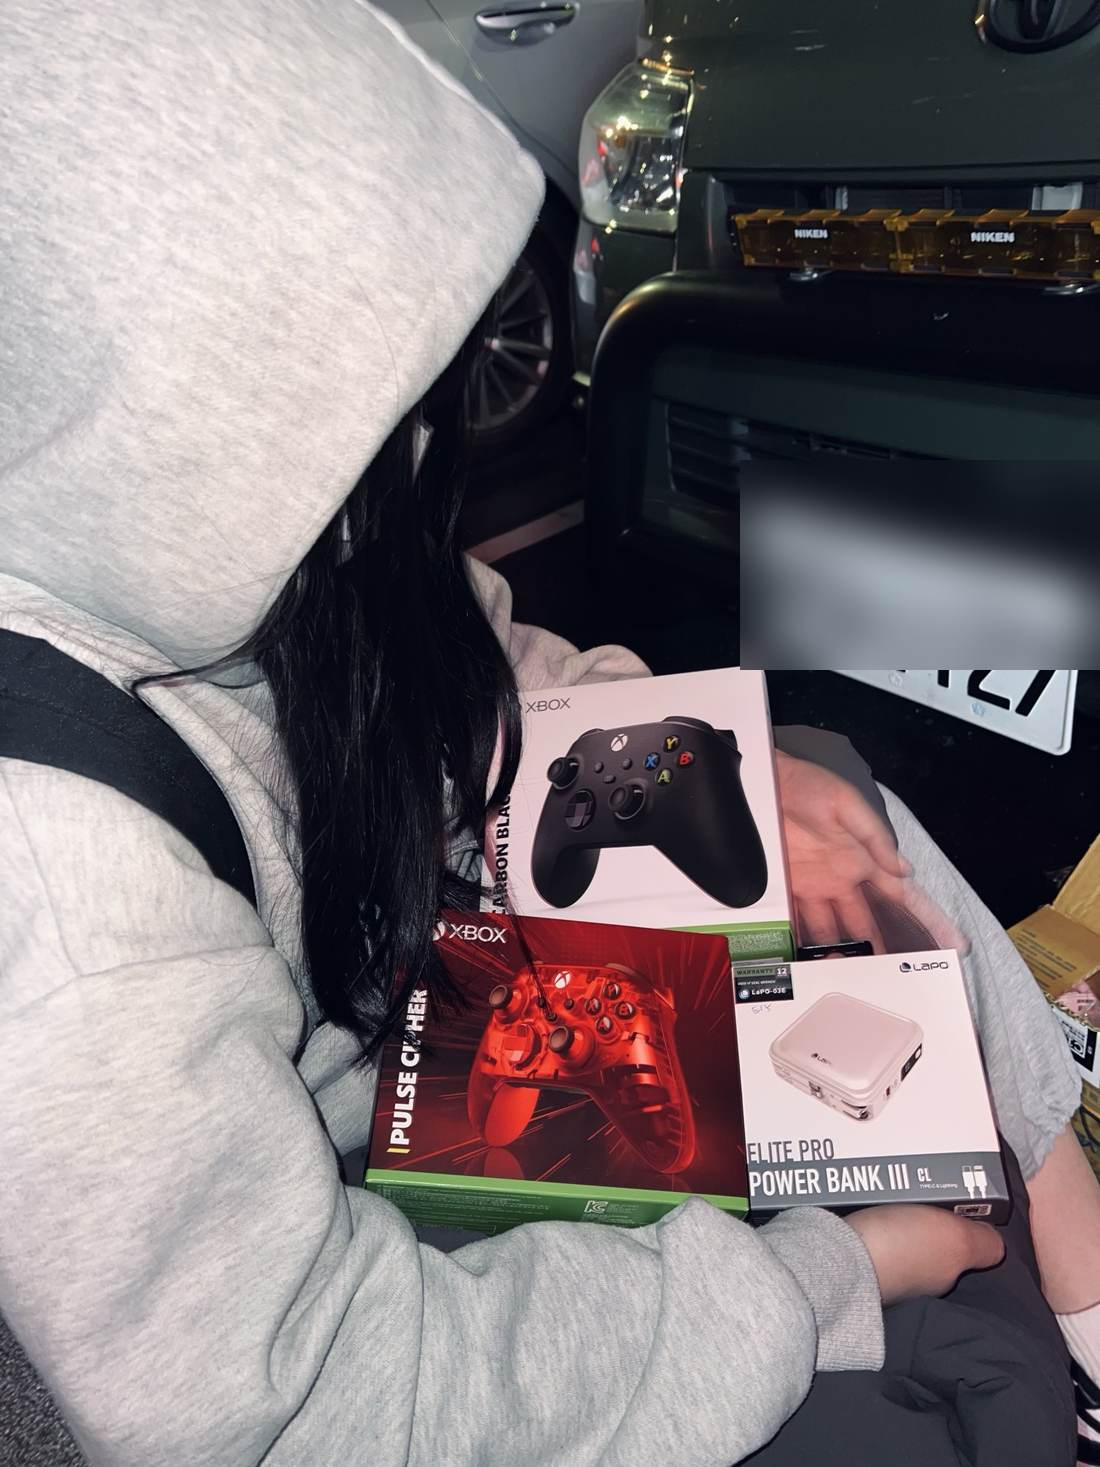
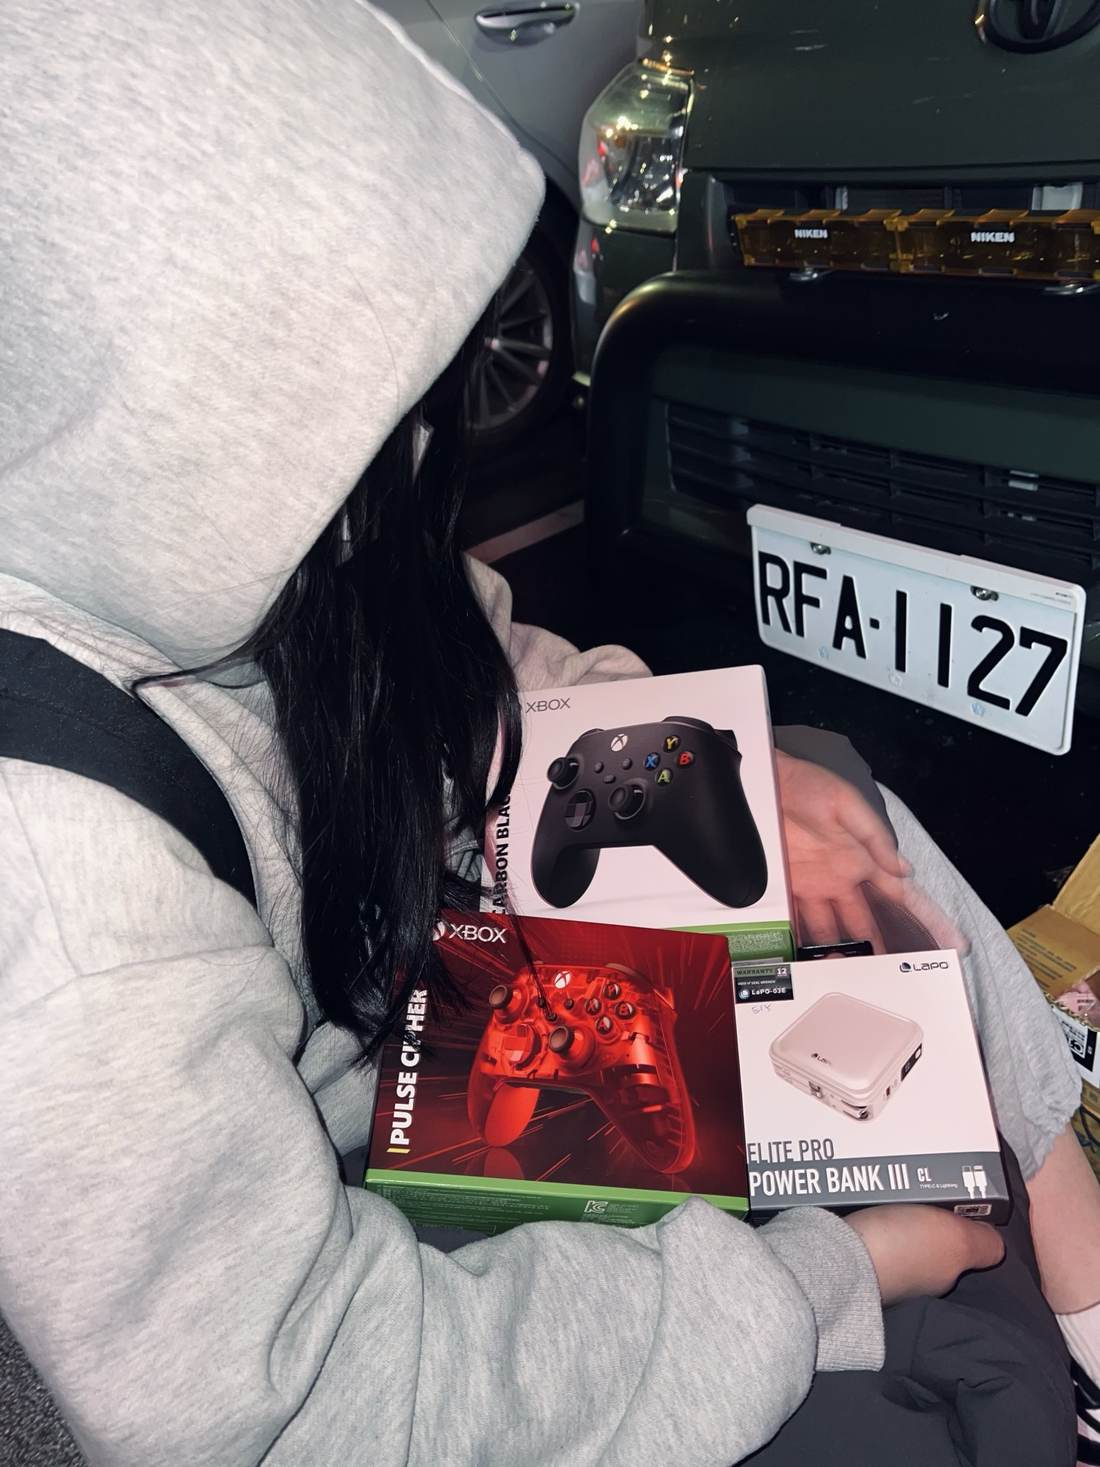
拿掉以前的馬賽克，回憶區可以猜月份、比哪張比較早

Changed region(s): [[0.6491, 0.3067, 1.0, 0.4601], [0.9273, 0.3067, 0.9582, 0.3374]]

diff --git a/js/app.js b/js/app.js
@@ -246,6 +246,99 @@ function bindWall(){
 bindWall();
 window.bindWall = bindWall;
 
+(function(){
+  const items = Array.from(document.querySelectorAll(".mem-row .tl-item")).map(function(el){
+    const img = el.querySelector("img");
+    const date = (el.querySelector(".tl-date") || {}).textContent || "";
+    const m = /(\d{4})\s*\/\s*(\d{1,2})/.exec(date);
+    return {
+      src: img ? img.getAttribute("src") : "",
+      key: m ? (Number(m[1]) * 100 + Number(m[2])) : 0,
+      label: m ? (m[1] + " / " + Number(m[2])) : ""
+    };
+  }).filter(function(it){ return it.src && it.key; });
+  const img = document.getElementById("playImg");
+  const months = document.getElementById("playMonths");
+  const msg = document.getElementById("playMsg");
+  const monthPane = document.getElementById("playMonthPane");
+  const olderPane = document.getElementById("playOlderPane");
+  const btnA = document.getElementById("playA");
+  const btnB = document.getElementById("playB");
+  const next = document.getElementById("playNext");
+  if(!img || !items.length || !months) return;
+  const labels = [];
+  const seen = {};
+  items.forEach(function(it){ if(!seen[it.key]){ seen[it.key] = it.label; labels.push(it.key); } });
+  labels.sort(function(a,b){ return a - b; });
+  let mode = "month", lock = false, score = 0, asked = 0, current = null, pair = null;
+  function setMode(nextMode){
+    mode = nextMode;
+    document.getElementById("playMonth").classList.toggle("on", mode === "month");
+    document.getElementById("playOlder").classList.toggle("on", mode === "older");
+    monthPane.hidden = mode !== "month";
+    olderPane.hidden = mode !== "older";
+    round();
+  }
+  function round(){
+    lock = false;
+    if(mode === "month"){
+      current = items[Math.floor(Math.random() * items.length)];
+      img.src = current.src;
+      months.innerHTML = "";
+      labels.forEach(function(key){
+        const b = document.createElement("button");
+        b.type = "button";
+        b.className = "chip";
+        b.textContent = seen[key];
+        b.onclick = function(){
+          if(lock) return;
+          lock = true;
+          asked++;
+          const ok = key === current.key;
+          if(ok) score++;
+          b.classList.add(ok ? "ok" : "bad");
+          if(!ok){
+            Array.from(months.children).forEach(function(x){ if(x.textContent === current.label) x.classList.add("ok"); });
+          }
+          msg.textContent = (ok ? "對" : "是 " + current.label) + "　" + score + " / " + asked;
+        };
+        months.appendChild(b);
+      });
+      msg.textContent = score ? (score + " / " + asked) : "這張是幾月";
+    } else {
+      let a = items[Math.floor(Math.random() * items.length)];
+      let b = items[Math.floor(Math.random() * items.length)];
+      let guard = 0;
+      while((b.key === a.key || b.src === a.src) && guard < 20){
+        b = items[Math.floor(Math.random() * items.length)];
+        guard++;
+      }
+      pair = [a, b];
+      btnA.className = ""; btnB.className = "";
+      btnA.querySelector("img").src = a.src;
+      btnB.querySelector("img").src = b.src;
+      msg.textContent = "點比較早的那張";
+    }
+  }
+  function pickOlder(i){
+    if(lock || !pair) return;
+    lock = true;
+    asked++;
+    const ok = pair[i].key < pair[1 - i].key;
+    if(ok) score++;
+    btnA.classList.add(pair[0].key <= pair[1].key ? "ok" : "bad");
+    btnB.classList.add(pair[1].key < pair[0].key ? "ok" : "bad");
+    const early = pair[0].key <= pair[1].key ? pair[0] : pair[1];
+    msg.textContent = (ok ? "對" : "比較早的是 " + early.label) + "　" + score + " / " + asked;
+  }
+  document.getElementById("playMonth").onclick = function(){ setMode("month"); };
+  document.getElementById("playOlder").onclick = function(){ setMode("older"); };
+  btnA.onclick = function(){ pickOlder(0); };
+  btnB.onclick = function(){ pickOlder(1); };
+  next.onclick = round;
+  round();
+})();
+
 const WALL_PAGE = 24;
 let wallAll = null;
 let wallAuto = 0;

diff --git a/index.html b/index.html
@@ -16,7 +16,7 @@
 <title>我們 ❤</title>
 <link rel="preconnect" href="https://fonts.googleapis.com">
 <link href="https://fonts.googleapis.com/css2?family=Caveat:wght@400;600&family=Noto+Sans+TC:wght@300;400;500;700&family=Noto+Serif+TC:wght@200;300;400;600&display=swap" rel="stylesheet">
-<link rel="stylesheet" href="css/app.css?v=26">
+<link rel="stylesheet" href="css/app.css?v=27">
 </head>
 <body>
 
@@ -174,6 +174,26 @@
 
   </div>
   <div class="page" id="page-memories">
+
+  <h3 class="stitle">回憶玩法</h3>
+  <div class="card" id="memPlay">
+    <div class="chip-row" style="justify-content:center">
+      <button type="button" class="chip on" id="playMonth">猜月份</button>
+      <button type="button" class="chip" id="playOlder">哪張比較早</button>
+    </div>
+    <div id="playMonthPane">
+      <img id="playImg" class="play-shot" alt="" src="">
+      <div class="chip-row" id="playMonths"></div>
+    </div>
+    <div id="playOlderPane" hidden>
+      <div class="play-pair">
+        <button type="button" id="playA"><img alt="" src=""></button>
+        <button type="button" id="playB"><img alt="" src=""></button>
+      </div>
+    </div>
+    <p id="playMsg" class="talk-note" style="text-align:center"></p>
+    <button class="btn-pink" id="playNext" type="button" style="display:block;margin:8px auto 0">換一題</button>
+  </div>
 
   <!-- 時間軸 -->
   <h3 class="stitle">2024 / 12</h3>
@@ -686,7 +706,7 @@
 <script src="js/guard.js?v=6"></script>
 <script src="js/config.js?v=4"></script>
 <script src="https://cdn.jsdelivr.net/npm/chart.js@4.4.1/dist/chart.umd.min.js"></script>
-<script src="js/app.js?v=36"></script>
+<script src="js/app.js?v=37"></script>
 <script src="https://cdn.botpress.cloud/webchat/v3.5/inject.js"></script>
 <script src="https://files.bpcontent.cloud/2026/01/12/17/20260112175648-Q8N99NKQ.js" defer></script>
 

diff --git a/css/app.css b/css/app.css
@@ -642,6 +642,15 @@ body{counter-reset: section}
 .mem-row .tl-text,
 .mem-row .tl-date,
 #carCap{display:none}
+.play-shot{width:100%;max-height:240px;object-fit:cover;border-radius:16px;background:#f4f4f4;margin-top:12px}
+.play-pair{display:grid;grid-template-columns:1fr 1fr;gap:8px;margin-top:12px}
+.play-pair button{border:3px solid transparent;border-radius:16px;padding:0;background:#fff;overflow:hidden;cursor:pointer}
+.play-pair img{width:100%;height:180px;object-fit:cover;display:block;pointer-events:none}
+.play-pair button.ok{border-color:#2e7d32}
+.play-pair button.bad{border-color:#c62828}
+#playMonths{justify-content:center;margin-top:10px}
+#playMonths .chip.ok{background:#2e7d32;color:#fff;border-color:#2e7d32}
+#playMonths .chip.bad{background:#c62828;color:#fff;border-color:#c62828}
 #wall:empty{display:none}
 #wallMine[hidden]{display:none!important}
 #wallMine{
